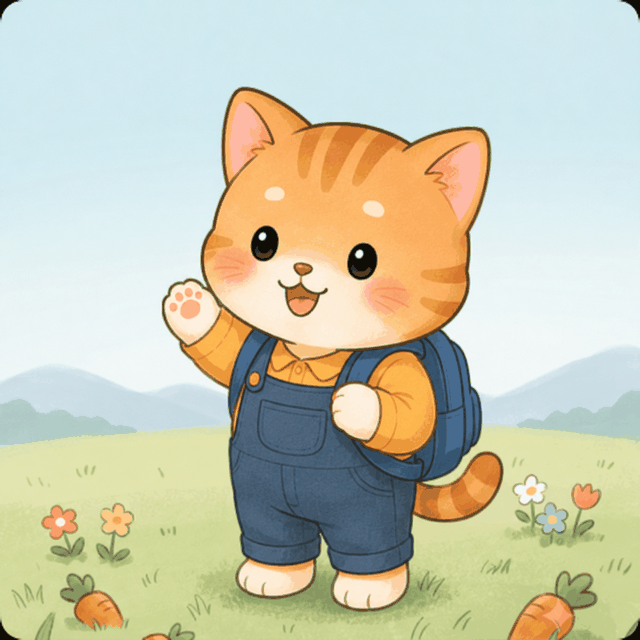
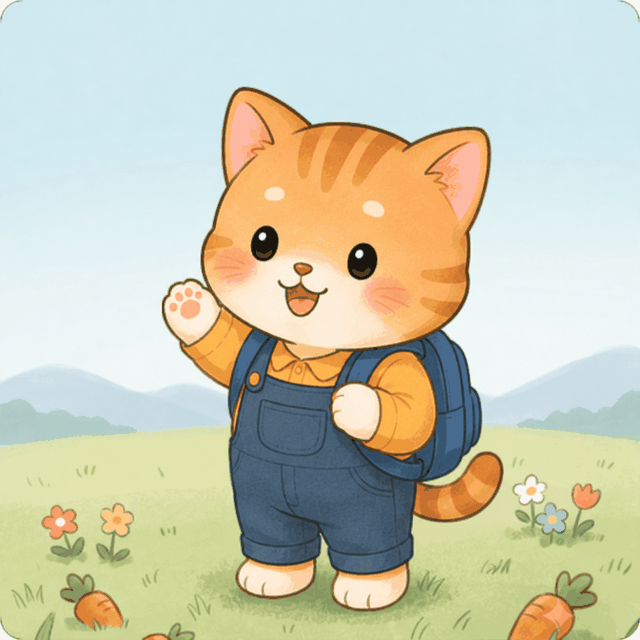
그림도 이름에 내용 해시를 붙인다 + 고양이 삽화의 검은 모서리
**그림을 갈아끼워도 화면이 안 바뀌던 문제.** public/ 의 그림은 이름이 그대로
나가서, 내용을 바꿔도 이름이 같으면 이미 앱을 써 본 브라우저가 다시 받지
않는다. 실제로 동화 삽화를 토끼에서 고양이로 바꿔 배포했는데 계속 토끼가
나왔다 — 로컬과 라이브 파일 해시는 같은데도. JS·CSS 는 Vite 가 이름에 해시를
붙여 주는데 그림만 빠져 있었다.

빌드가 끝난 결과물에서만 파일 이름을 바꾸고 번들 안의 문자열을 같이 바꾼다.
소스의 경로 문자열은 그대로 두고, 개발 서버도 영향이 없다.

**여기서 한 번 크게 틀렸다.** 처음에는 그림 전부의 이름을 바꿨는데, 캐릭터는
`/characters/${who}-${pose}.png` 로 경로를 조합해서 번들에 고칠 문자열이
없다 — 파일만 이름이 바뀌고 앱은 옛 이름을 불러 캐릭터가 통째로 깨졌다.
그런데 내가 넣은 검증은 "글자 그대로 있는 참조" 만 보므로 조용히 통과했다.
지금은 **번들에 글자 그대로 있는 것만** 이름을 바꾸고, 나머지는 왜 건너뛰었는지
(안 쓰는 그림인가, 런타임 조합인가) 갈라서 알린다.

그리고 조합하던 자리 둘을 문자열로 폈다 — data.ts 의 `${S}/...` 26곳과
캐릭터 표 10장. 이제 쓰이는 그림 38개 전부에 해시가 붙는다.

**아무 데서도 안 쓰는 그림 14개(2.9MB)를 지웠다.** 스크립트가 알려줬다.
앱 크기의 4분의 1 이 안 쓰는 토끼 그림이었다.

**고양이 삽화의 검은 모서리.** cat.png 원본은 둥근 그림 바깥이 검정(0,0,0)
이었다. 다른 삽화 셋은 크림색(255,246,238)이다. 같은 색으로 메웠다 —
반지름은 실측 33보다 크게 잡아 안티에일리어싱 언저리까지 지웠다.

diff --git a/src/scenarios/data.ts b/src/scenarios/data.ts
@@ -12,8 +12,6 @@ import type { CategoryId, ClassPoem, ClassScenario, DialogueScenario } from './t
  * 서버라서, 앱이 들고 있는 문구와 어긋나면 화면과 채점이 달라진다.
  */
 
-const S = '/scenes';
-
 export const ARRIVAL: DialogueScenario = {
   id: 'ARRIVAL',
   title: '등교하기',
@@ -24,12 +22,12 @@ export const ARRIVAL: DialogueScenario = {
     // 원본 bg_arrival_intro 에는 분홍 원피스 토끼가 한가운데 서 있었다.
     // 그 위에 호랑이 친구의 말풍선을 띄우니 토끼가 말하는 것처럼 읽혔다 —
     // 배경에서 인물을 지운 빈 거리로 바꾸고, 말하는 캐릭터는 직접 세운다.
-    intro: `${S}/arrival/bg_arrival_street.png`,
-    talk: `${S}/arrival/bg_arrival_street.png`,
-    repeat: `${S}/arrival/bg_arrival_street.png`,
-    complete: `${S}/arrival/bg_arrival_complete2.webp`,
+    intro: '/scenes/arrival/bg_arrival_street.png',
+    talk: '/scenes/arrival/bg_arrival_street.png',
+    repeat: '/scenes/arrival/bg_arrival_street.png',
+    complete: '/scenes/arrival/bg_arrival_complete2.webp',
   },
-  partner: { name: '호랑이 친구', image: `${S}/arrival/img_arrival_tiger.png`, voice: 'FRIEND' },
+  partner: { name: '호랑이 친구', image: '/scenes/arrival/img_arrival_tiger.png', voice: 'FRIEND' },
   intro: { situation: '학교 앞이에요.\n친구를 만났어요!', prompt: '어떻게 인사해 볼까요?' },
   partnerLine: '안녕! 만나서 반가워.',
   speakPrompt: '마이크를 누르고\n인사해 보세요!',
@@ -56,14 +54,14 @@ export const LUNCH: DialogueScenario = {
   sentenceCategory: 'lunch',
   storyCategory: 'lunch',
   scenes: {
-    intro: `${S}/lunch/bg_lunch_intro.png`,
-    talk: `${S}/lunch/bg_lunch_question.png`,
-    repeat: `${S}/lunch/bg_lunch_question.png`,
-    complete: `${S}/lunch/bg_lunch_complete2.webp`,
+    intro: '/scenes/lunch/bg_lunch_intro.png',
+    talk: '/scenes/lunch/bg_lunch_question.png',
+    repeat: '/scenes/lunch/bg_lunch_question.png',
+    complete: '/scenes/lunch/bg_lunch_complete2.webp',
   },
   // 배경에도 급식 선생님이 그려져 있지만, 인트로에서는 배경을 흐려 뒤로 밀고
   // 이 그림만 또렷하게 세운다 — 말하는 사람이 누구인지 분명해진다.
-  partner: { name: '급식 선생님', image: `${S}/lunch/img_lunch_rabbit_response.png`, voice: 'TEACHER' },
+  partner: { name: '급식 선생님', image: '/scenes/lunch/img_lunch_rabbit_response.png', voice: 'TEACHER' },
   intro: { situation: '점심시간이에요.\n반찬을 받아봐요!', prompt: '얼마나 받을지 말해볼까요?' },
   partnerLine: '불고기 많이 줄까?',
   speakPrompt: '마이크를 누르고\n말해보세요!',
@@ -80,14 +78,14 @@ export const DISMISSAL: DialogueScenario = {
   sentenceCategory: 'departure',
   storyCategory: 'school_departure',
   scenes: {
-    intro: `${S}/dismissal/bg_dismissal_intro.png`,
-    talk: `${S}/dismissal/bg_dismissal_intro.png`,
-    repeat: `${S}/dismissal/bg_dismissal_intro.png`,
-    complete: `${S}/dismissal/bg_dismissal_complete2.webp`,
+    intro: '/scenes/dismissal/bg_dismissal_intro.png',
+    talk: '/scenes/dismissal/bg_dismissal_intro.png',
+    repeat: '/scenes/dismissal/bg_dismissal_intro.png',
+    complete: '/scenes/dismissal/bg_dismissal_complete2.webp',
   },
   partner: {
     name: '코끼리 선생님',
-    image: `${S}/dismissal/img_dismissal_elephant.png`,
+    image: '/scenes/dismissal/img_dismissal_elephant.png',
     voice: 'TEACHER',
   },
   intro: { situation: '하루가 끝났어요.\n집에 갈 시간이에요!', prompt: '어떻게 인사해 볼까요?' },
@@ -114,16 +112,16 @@ export const CLASS: ClassScenario = {
   scenes: {
     // 수업시간 그림만 webp 다. 하늘 계조가 있는 그림이라 PNG 팔레트로 줄이면
     // 얼룩이 남고, 줄이지 않으면 한 장에 700KB 가 넘었다.
-    intro: `${S}/class/bg_class_korean_intro.webp`,
-    find: `${S}/class/bg_class_rabbit_order.webp`,
-    poem: `${S}/class/bg_class_korean_intro.webp`,
-    complete: `${S}/class/bg_class_complete2.webp`,
+    intro: '/scenes/class/bg_class_korean_intro.webp',
+    find: '/scenes/class/bg_class_rabbit_order.webp',
+    poem: '/scenes/class/bg_class_korean_intro.webp',
+    complete: '/scenes/class/bg_class_complete2.webp',
   },
   /** 책 넘기기·시 읽기 화면이 쓰는 그림 */
   props: {
-    book: `${S}/class/img_class_koreanbook.webp`,
-    bookFound: `${S}/class/img_class_bookpage.webp`,
-    swipeHint: `${S}/class/img_class_turn_hint.webp`,
+    book: '/scenes/class/img_class_koreanbook.webp',
+    bookFound: '/scenes/class/img_class_bookpage.webp',
+    swipeHint: '/scenes/class/img_class_turn_hint.webp',
   },
   teacherLine: '국어책 {page}페이지를 펴보자!',
   /*
@@ -139,13 +137,13 @@ export const CLASS: ClassScenario = {
       sentenceId: 'study_1',
       title: '꽃',
       lines: ['노란 꽃이 피었어요', '예쁜 꽃이 피었어요', '바람이 살랑살랑', '꽃이 웃어요.'],
-      scene: `${S}/class/img_class_poem.webp`,
+      scene: '/scenes/class/img_class_poem.webp',
     },
     {
       sentenceId: 'study_2',
       title: '눈',
       lines: ['눈이 와요, 눈이 와요', '하얀 눈이 펑펑 와요', '우리 같이 눈사람 만들어요.'],
-      scene: `${S}/class/img_class_poem_snow.webp`,
+      scene: '/scenes/class/img_class_poem_snow.webp',
       // 눈 그림은 위쪽이 비어 보이지 않는다. 한 줄만큼 내려 얹는다
       textOffset: 22,
     },
@@ -153,7 +151,7 @@ export const CLASS: ClassScenario = {
       sentenceId: 'study_3',
       title: '파도',
       lines: ['파도가 와요, 철썩', '내 발을 만져요', '내가 뒤로 가면', '파도도 따라와요.'],
-      scene: `${S}/class/img_class_poem_wave.webp`,
+      scene: '/scenes/class/img_class_poem_wave.webp',
     },
     {
       sentenceId: 'study_4',
@@ -166,7 +164,7 @@ export const CLASS: ClassScenario = {
         '몹시 추운 사람도 들어왔다.',
         '오들오들.',
       ],
-      scene: `${S}/class/img_class_poem_cold.webp`,
+      scene: '/scenes/class/img_class_poem_cold.webp',
     },
   ],
 };

diff --git a/src/components/index.tsx b/src/components/index.tsx
@@ -16,6 +16,31 @@ import './ui.css';
 export type Pose = 'hello' | 'speak' | 'happy' | 'sad' | 'cheer';
 export type Who = 'me' | 'teacher';
 
+/**
+ * 그림 경로를 표로 적어 둔다. `/characters/${who}-${pose}.png` 로 조합하면 안 된다.
+ *
+ * 빌드가 그림 파일 이름에 내용 해시를 붙이는데(캐시가 안 깨지는 것을 막으려고),
+ * 조합해서 만든 경로는 번들 안에 글자 그대로 있지 않아 **같이 못 고친다.**
+ * 그러면 파일은 이름이 바뀌었는데 앱은 옛 이름을 부르므로 그림이 통째로 깨진다.
+ * 열 장뿐이니 적어 두는 편이 낫다.
+ */
+const CHARACTER: Record<Who, Record<Pose, string>> = {
+  me: {
+    hello: '/characters/me-hello.png',
+    speak: '/characters/me-speak.png',
+    happy: '/characters/me-happy.png',
+    sad: '/characters/me-sad.png',
+    cheer: '/characters/me-cheer.png',
+  },
+  teacher: {
+    hello: '/characters/teacher-hello.png',
+    speak: '/characters/teacher-speak.png',
+    happy: '/characters/teacher-happy.png',
+    sad: '/characters/teacher-sad.png',
+    cheer: '/characters/teacher-cheer.png',
+  },
+};
+
 type CharacterProps = {
   who: Who;
   pose: Pose;
@@ -39,7 +64,7 @@ export function Character({
   return (
     <img
       key={`${who}-${pose}`}
-      src={`/characters/${who}-${pose}.png`}
+      src={CHARACTER[who][pose]}
       alt=""
       aria-hidden
       className={`actor actor--enter ${still ? 'actor--still' : ''} ${className}`}
